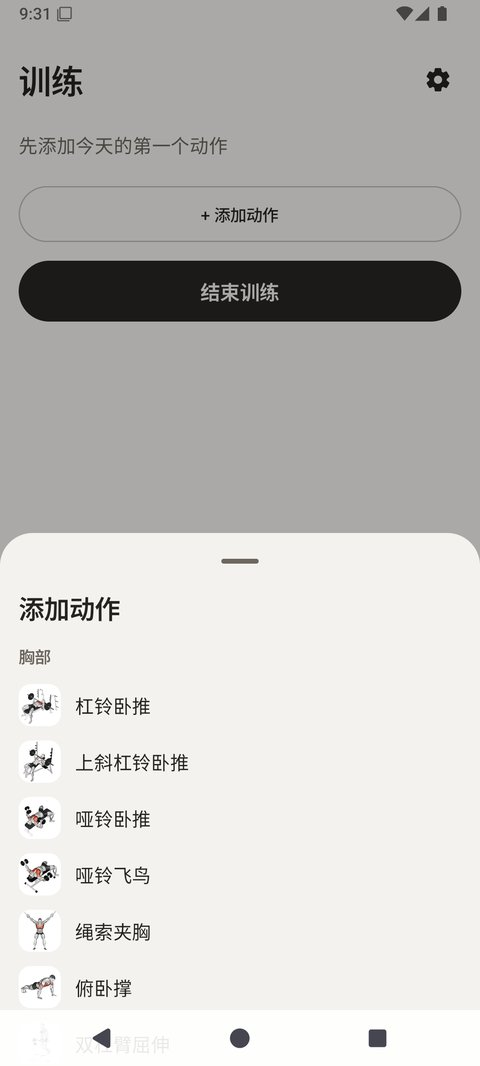
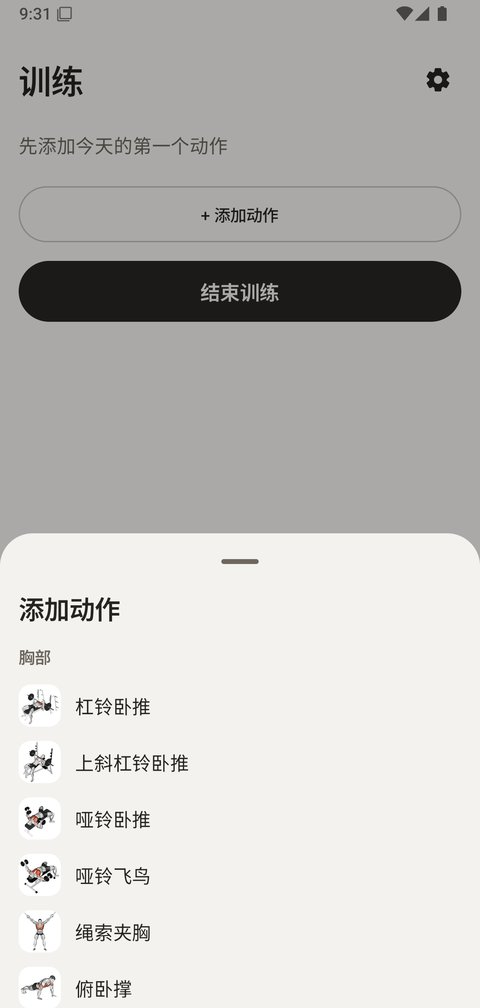
README:截图更新为 v4 界面(裁掉系统导航栏)
替换 5 张:模板训练页/统计热力图/计划模板/动作走势图/动作选择器

diff --git a/README.md b/README.md
@@ -4,10 +4,11 @@
 > Kotlin + Jetpack Compose · Material 3 白金风 · 无账号 · 无广告 · 不联网
 
 <p align="center">
-  <img src="screenshots/train.jpg" width="200" alt="训练页:逐组表格与组间休息倒计时">
-  <img src="screenshots/picker.jpg" width="200" alt="动作选择器">
-  <img src="screenshots/pr.jpg" width="200" alt="个人纪录与 1RM 估算">
-  <img src="screenshots/library_dark.jpg" width="200" alt="动作库(深色)">
+  <img src="screenshots/train.jpg" width="185" alt="训练页:从模板开始,目标组次与完成进度">
+  <img src="screenshots/stats.jpg" width="185" alt="统计:热力图与本周概览">
+  <img src="screenshots/plans.jpg" width="185" alt="计划:推/拉/腿模板">
+  <img src="screenshots/chart.jpg" width="185" alt="每动作走势折线图">
+  <img src="screenshots/picker.jpg" width="185" alt="动作选择器">
 </p>
 
 ## ✨ 特性
